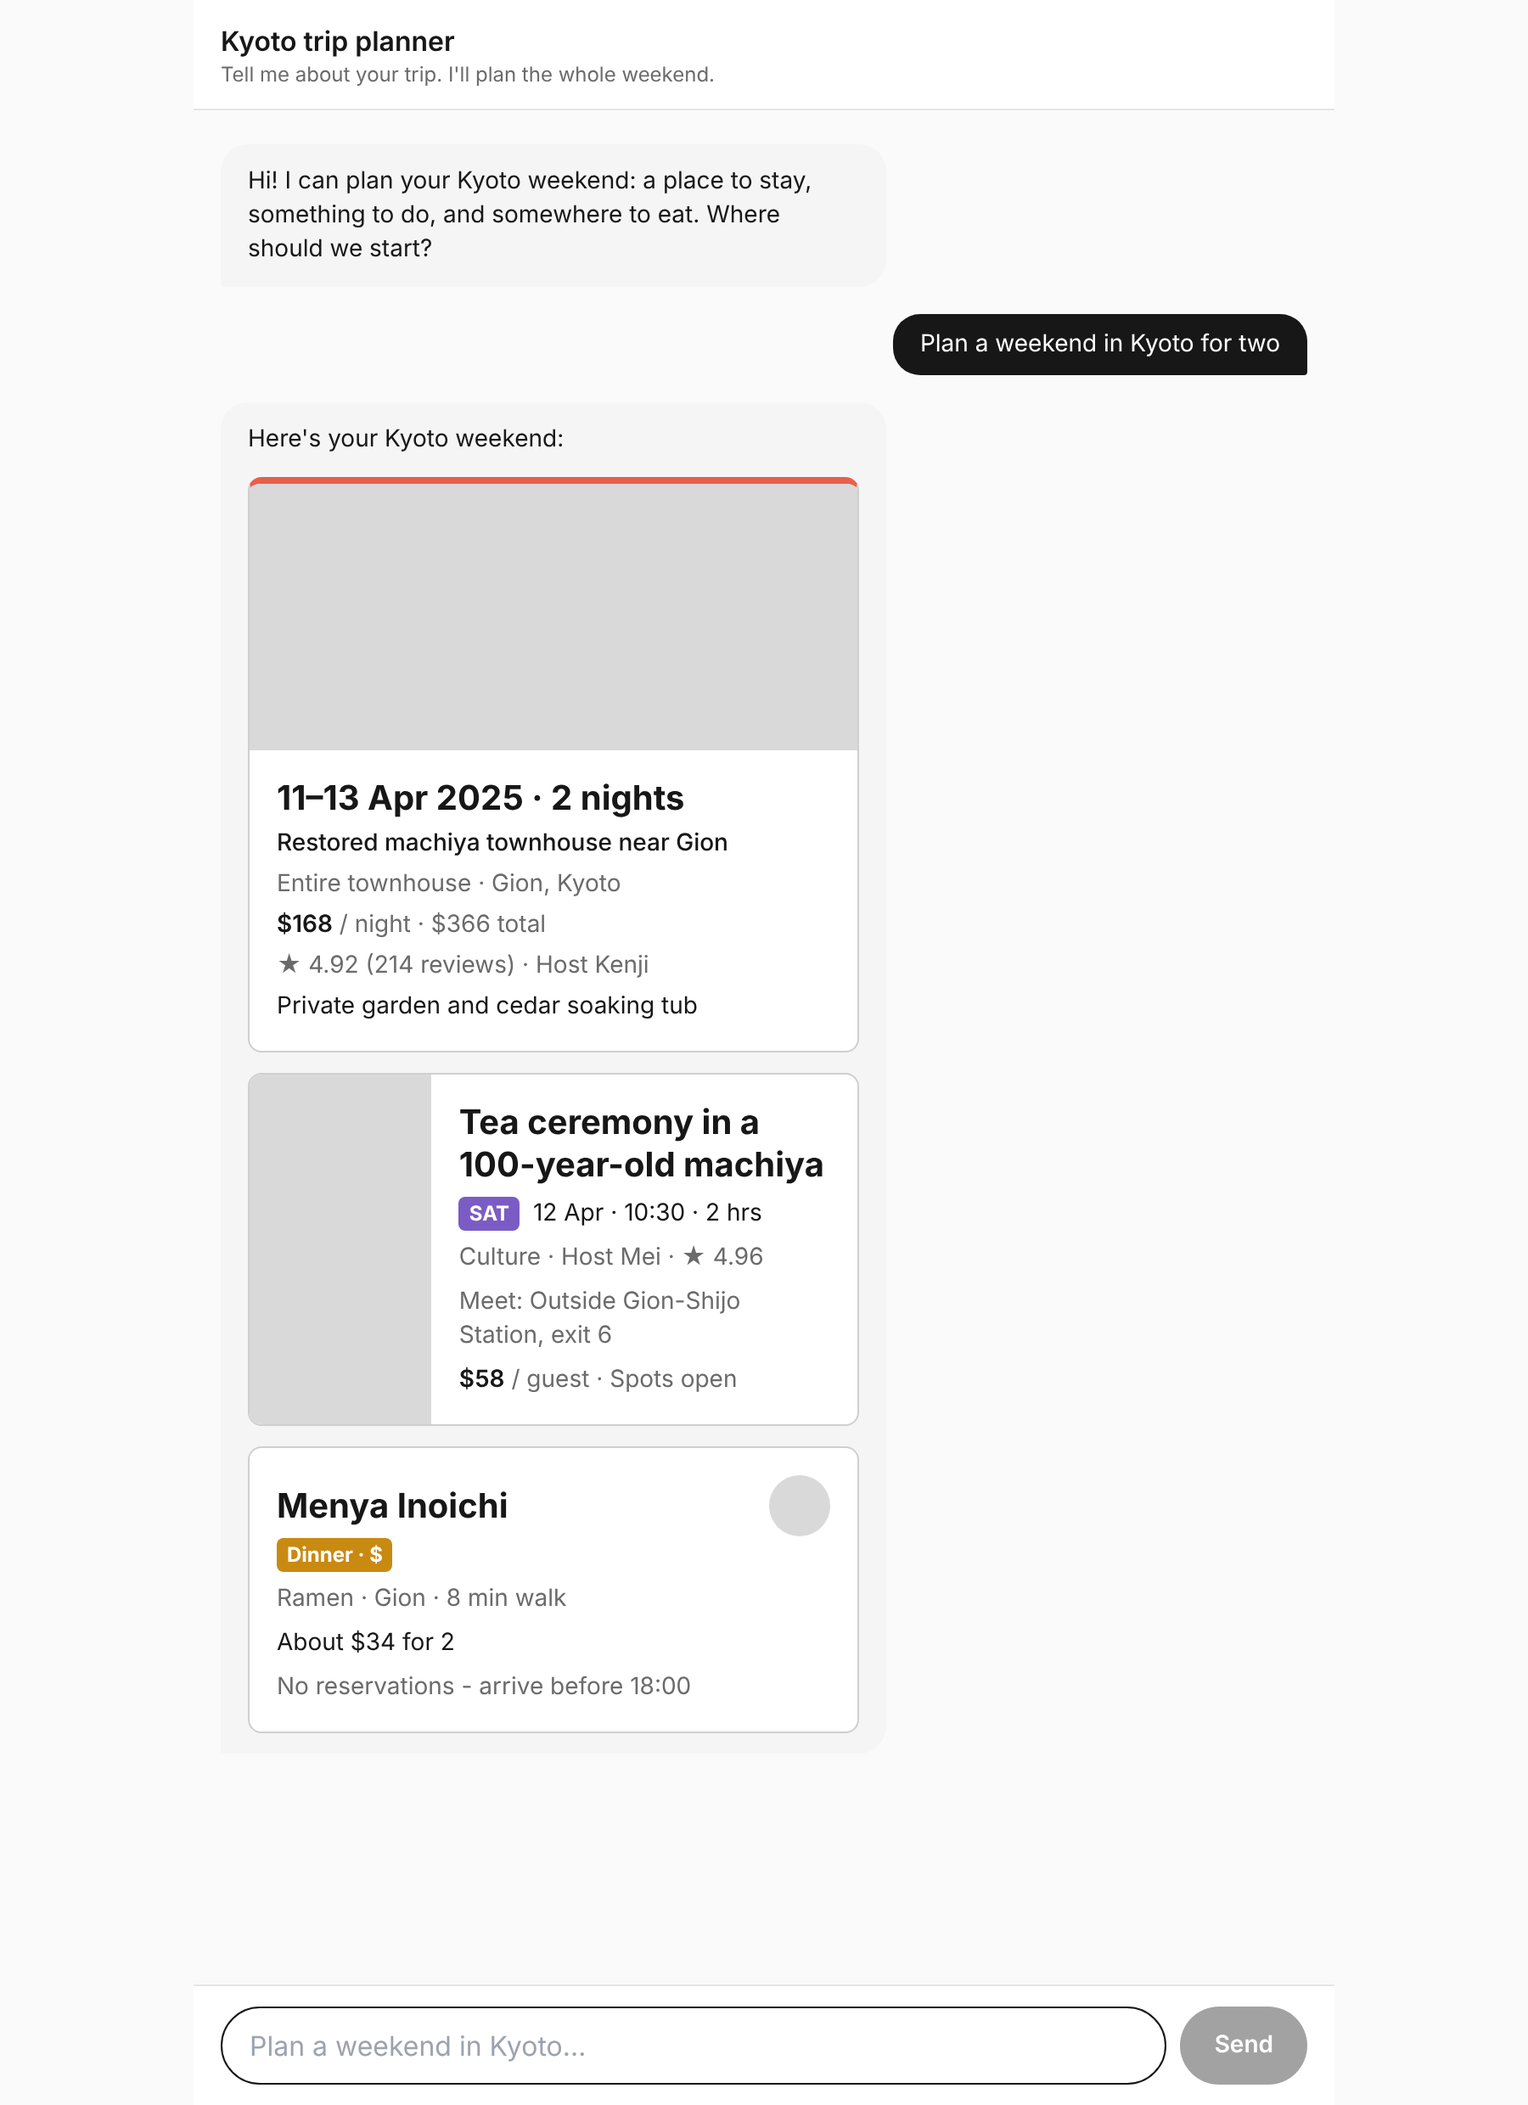
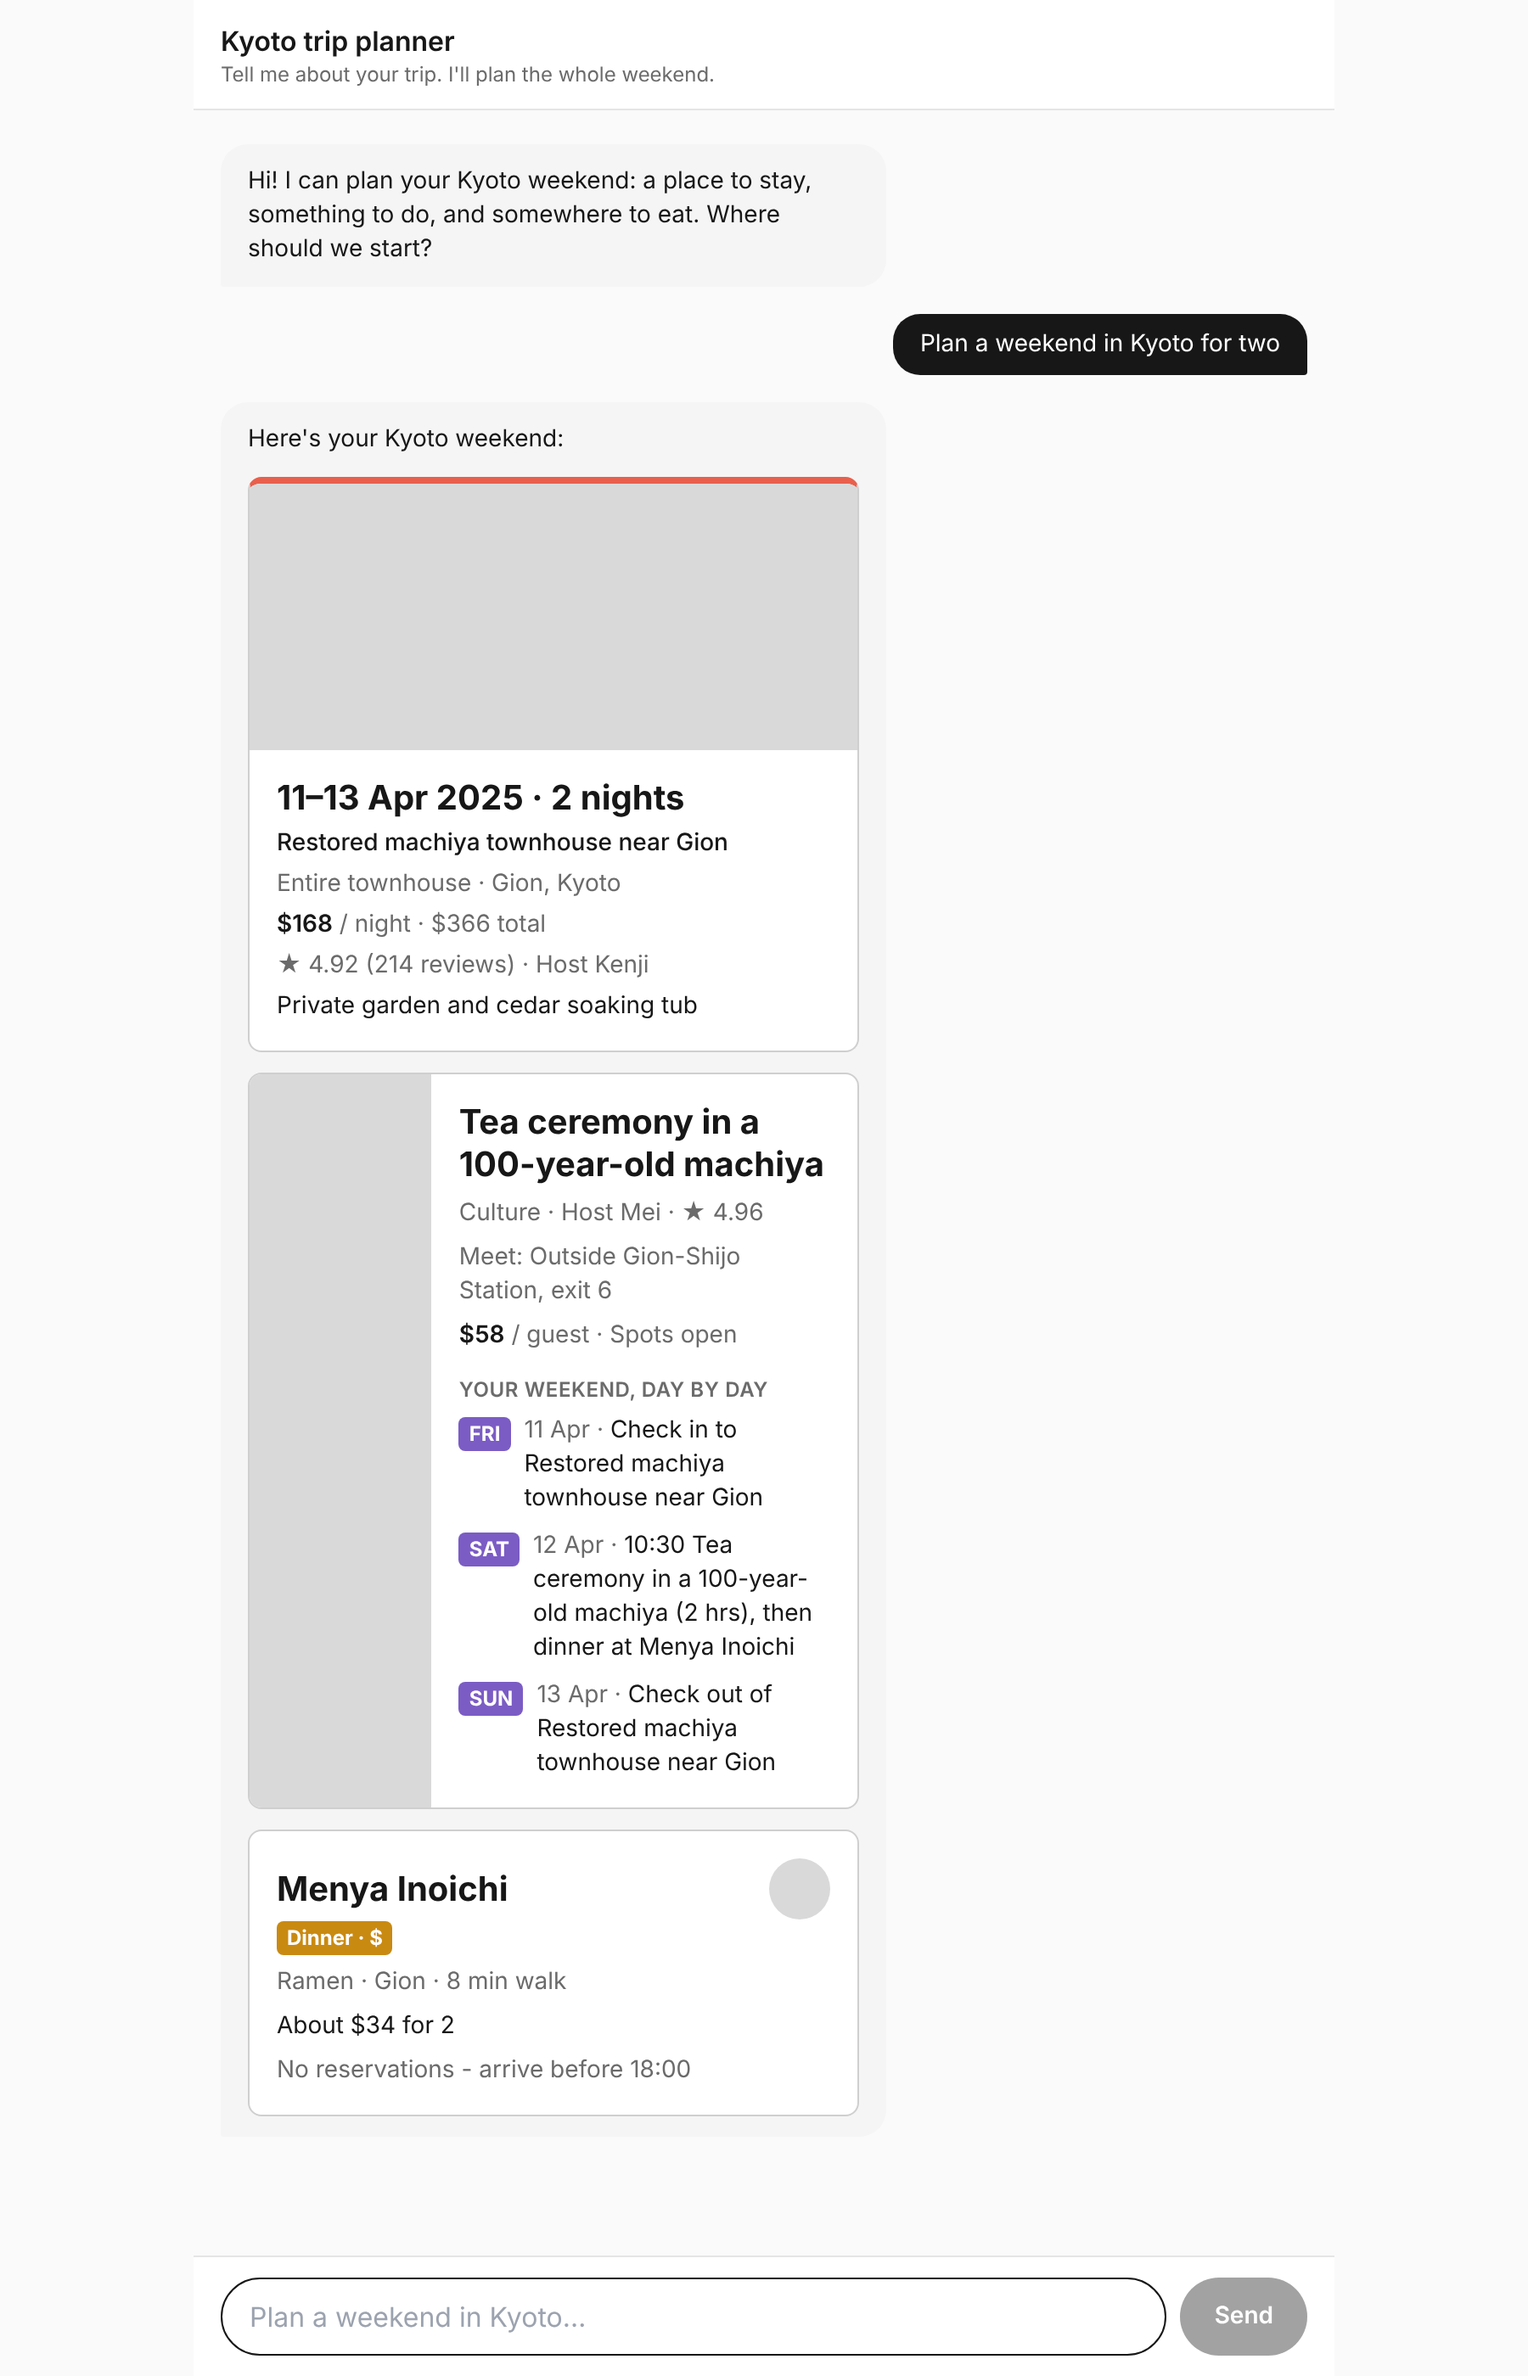
Experience card: day-by-day weekend plan from the workbook rows

diff --git a/components/ExperienceCard.tsx b/components/ExperienceCard.tsx
@@ -1,9 +1,10 @@
 import type { ExperienceDetails } from "@/data/mockResponse";
-import { dayLabel, fill, fillWith } from "./fill";
+import type { PlanDay } from "./dayPlan";
+import { fill, fillWith, FILLER } from "./fill";
 
-// Experience card: tall grey strip on the left, experience title as the biggest text, purple day label.
-export default function ExperienceCard({ details: d }: { details: ExperienceDetails }) {
-  const day = dayLabel(d.date);
+// Experience card: tall grey strip on the left, experience title as the biggest text,
+// purple day labels on the weekend's day-by-day plan.
+export default function ExperienceCard({ details: d, plan = [] }: { details: ExperienceDetails; plan?: PlanDay[] }) {
   return (
     <article
       aria-label="Experience"
@@ -12,12 +13,6 @@ export default function ExperienceCard({ details: d }: { details: ExperienceDeta
       <div className="w-[30%] shrink-0 bg-placeholder" aria-hidden />
       <div className="flex-1 space-y-1.5 p-4">
         <p className="text-xl font-bold leading-tight text-neutral-900">{fill(d.title)}</p>
-        <p className="text-sm text-neutral-900">
-          <span className="mr-2 inline-block rounded bg-purple px-1.5 py-0.5 text-xs font-bold text-white">
-            {day ? day.weekday : "DAY"}
-          </span>
-          {day ? day.day : fill(undefined)} · {fill(d.startTime)} · {fillWith(d.durationHours, (v) => `${v} hrs`)}
-        </p>
         <p className="text-sm text-muted">
           {fill(d.category)} · Host {fill(d.hostFirstName)} · ★ {fill(d.rating)}
         </p>
@@ -26,6 +21,25 @@ export default function ExperienceCard({ details: d }: { details: ExperienceDeta
           <span className="font-semibold text-neutral-900">{fillWith(d.pricePerGuestUsd, (v) => `$${v}`)}</span>
           <span className="text-muted"> / guest · {fill(d.availability)}</span>
         </p>
+
+        <p className="pt-2 text-xs font-semibold uppercase tracking-wide text-muted">Your weekend, day by day</p>
+        <ul className="space-y-2">
+          {plan.length === 0 ? (
+            <li className="text-sm text-muted">Day plan: {FILLER}</li>
+          ) : (
+            plan.map((p) => (
+              <li key={p.weekday + p.day} className="flex gap-2 text-sm text-neutral-900">
+                <span className="mt-0.5 h-fit shrink-0 rounded bg-purple px-1.5 py-0.5 text-xs font-bold text-white">
+                  {p.weekday}
+                </span>
+                <span>
+                  <span className="text-muted">{p.day} · </span>
+                  {p.text}
+                </span>
+              </li>
+            ))
+          )}
+        </ul>
       </div>
     </article>
   );

diff --git a/components/dayPlan.ts b/components/dayPlan.ts
@@ -1,0 +1,35 @@
+import type { TripCard, StayDetails, ExperienceDetails, FoodDetails } from "@/data/mockResponse";
+import { dayLabel, fill, has } from "./fill";
+
+export type PlanDay = { weekday: string; day: string; text: string };
+
+// Builds the weekend day by day using only the three workbook rows in the mock:
+// check-in and check-out come from the Stays row, the activity from the Experiences row,
+// and dinner from the Food row (placed on the experience day). Nothing is made up.
+export function buildDayPlan(cards: TripCard[]): PlanDay[] {
+  const stay = cards.find((c) => c.cardType === "stay")?.details as StayDetails | undefined;
+  const exp = cards.find((c) => c.cardType === "experience")?.details as ExperienceDetails | undefined;
+  const food = cards.find((c) => c.cardType === "food")?.details as FoodDetails | undefined;
+
+  const entries: { date: string; text: string }[] = [];
+
+  if (stay && has(stay.checkIn)) {
+    entries.push({ date: stay.checkIn!, text: `Check in to ${fill(stay.listingTitle)}` });
+  }
+  if (exp && has(exp.date)) {
+    const time = has(exp.startTime) ? `${exp.startTime} ` : "";
+    const hrs = has(exp.durationHours) ? ` (${exp.durationHours} hrs)` : "";
+    const dinner = food && has(food.placeName) ? `, then ${fill(food.meal).toLowerCase()} at ${food.placeName}` : "";
+    entries.push({ date: exp.date!, text: `${time}${fill(exp.title)}${hrs}${dinner}` });
+  }
+  if (stay && has(stay.checkOut)) {
+    entries.push({ date: stay.checkOut!, text: `Check out of ${fill(stay.listingTitle)}` });
+  }
+
+  return entries
+    .sort((a, b) => a.date.localeCompare(b.date))
+    .map((e) => {
+      const d = dayLabel(e.date);
+      return { weekday: d?.weekday ?? "DAY", day: d?.day ?? fill(undefined), text: e.text };
+    });
+}

diff --git a/components/TripCards.tsx b/components/TripCards.tsx
@@ -2,9 +2,11 @@ import type { TripCard } from "@/data/mockResponse";
 import StayCard from "./StayCard";
 import ExperienceCard from "./ExperienceCard";
 import FoodCard from "./FoodCard";
+import { buildDayPlan } from "./dayPlan";
 
 // Picks the right component for each item using cardType. Order follows the mock: stay, experience, food.
 export default function TripCards({ cards }: { cards: TripCard[] }) {
+  const plan = buildDayPlan(cards);
   return (
     <div className="flex flex-col gap-3">
       {cards.map((card) => {
@@ -12,7 +14,7 @@ export default function TripCards({ cards }: { cards: TripCard[] }) {
           case "stay":
             return <StayCard key="stay" details={card.details} />;
           case "experience":
-            return <ExperienceCard key="experience" details={card.details} />;
+            return <ExperienceCard key="experience" details={card.details} plan={plan} />;
           case "food":
             return <FoodCard key="food" details={card.details} />;
         }

diff --git a/README.md b/README.md
@@ -27,7 +27,7 @@ Tested on the live link: phone (390px wide) and laptop (1280px wide).
 | Card | Image spot | Biggest text | Accent colour |
 |---|---|---|---|
 | Stay (`components/StayCard.tsx`) | Full-width grey banner on top | Travel dates: "11–13 Apr 2025 · 2 nights" | Coral top border |
-| Experience (`components/ExperienceCard.tsx`) | Tall grey strip on the left | Title: "Tea ceremony in a 100-year-old machiya" | Purple "SAT" day label |
+| Experience (`components/ExperienceCard.tsx`) | Tall grey strip on the left | Title: "Tea ceremony in a 100-year-old machiya" | Purple FRI / SAT / SUN labels on a day-by-day plan |
 | Food (`components/FoodCard.tsx`) | Small round grey thumbnail, top right | Place name: "Menya Inoichi" | Amber "Dinner · $" label |
 
 ## Screenshots
